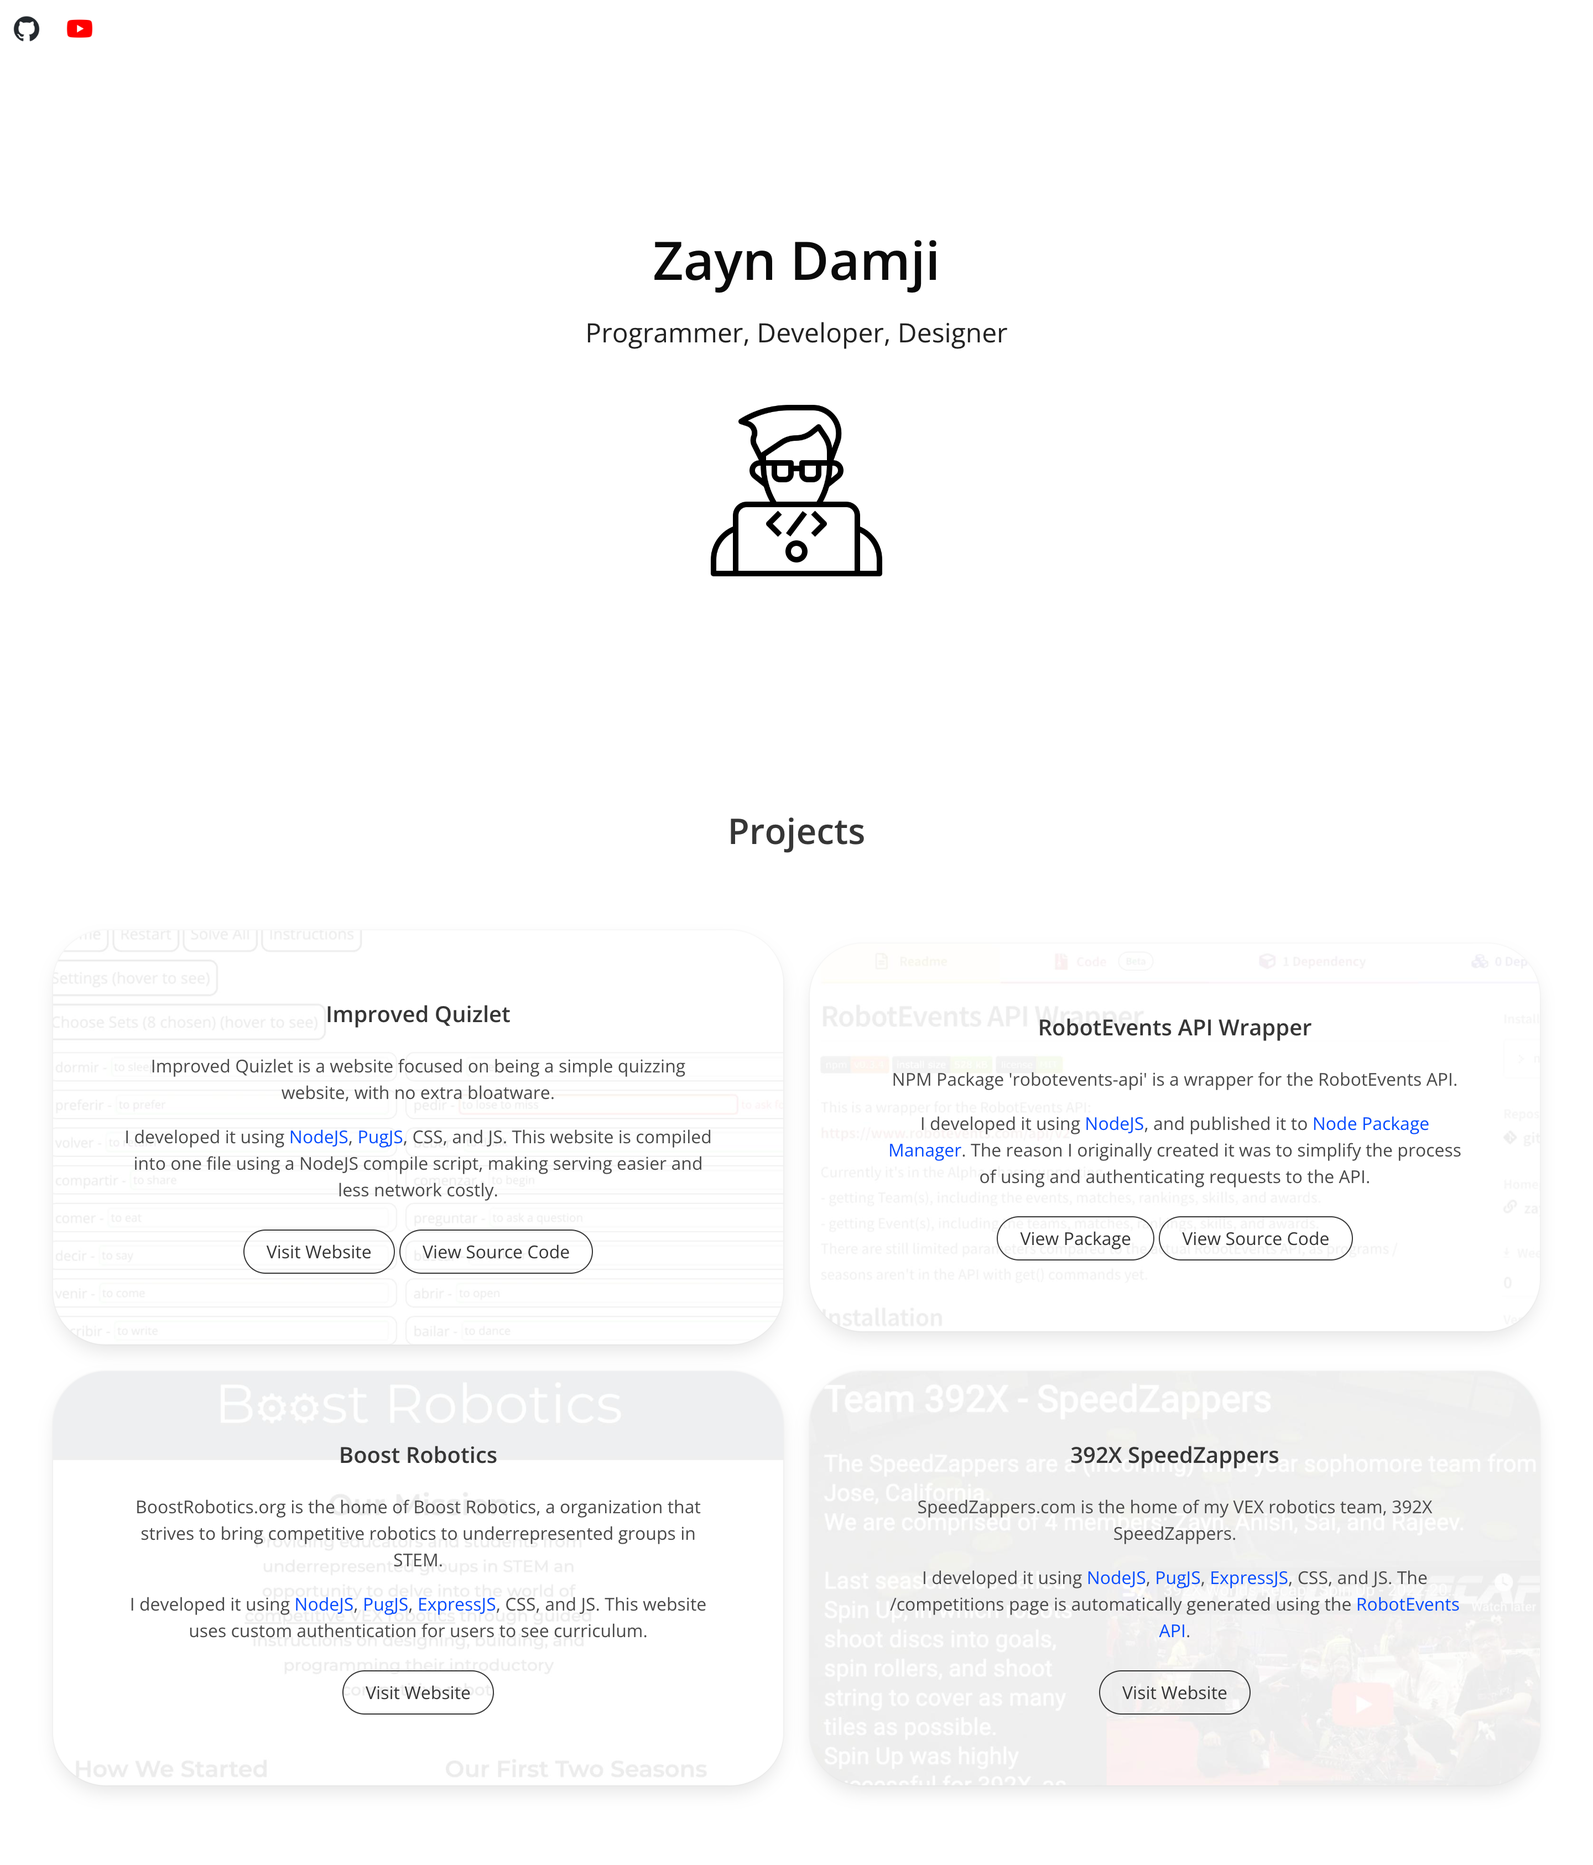
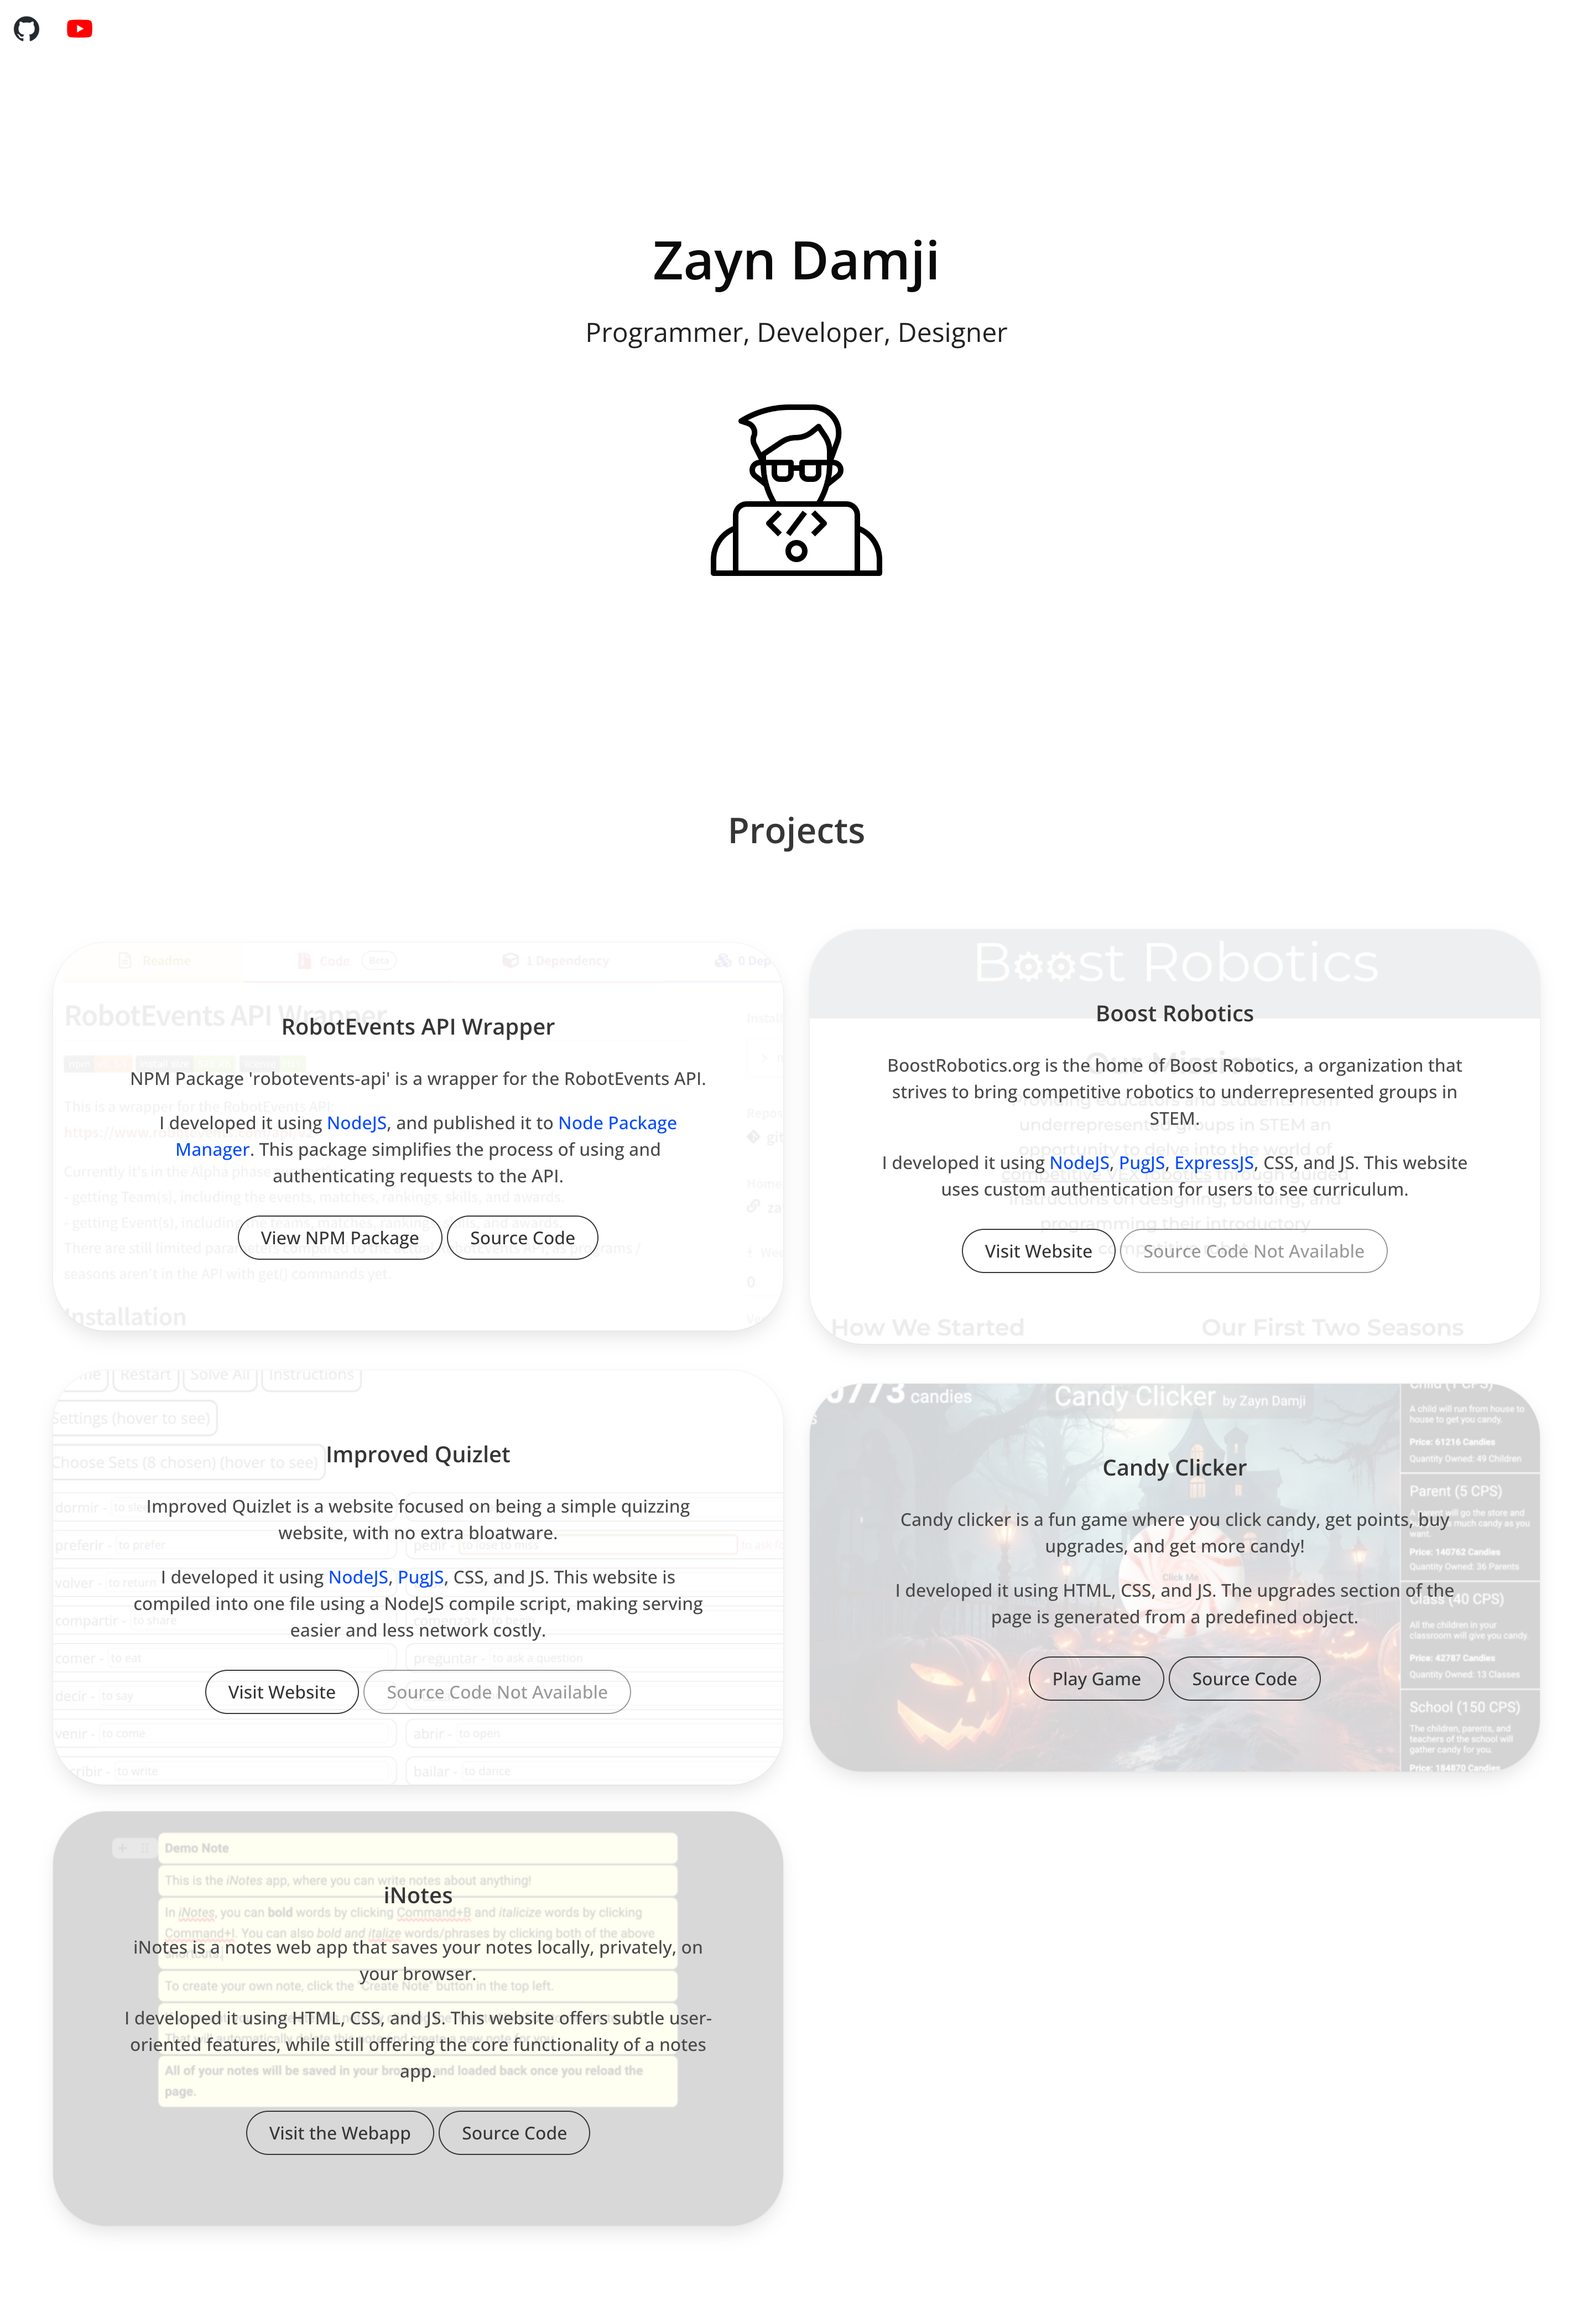
added i-notes

diff --git a/index.html b/index.html
@@ -61,8 +61,8 @@
                 This package simplifies the process of using and authenticating requests to the API.<br>
               </p>
             </div>
-            <a class="button is-dark is-outlined is-rounded" href="https://www.npmjs.com/package/robotevents-api" target="_blank"><span>View Package</span></a>
-            <a class="button is-dark is-outlined is-rounded" href="https://github.com/zayndamji/robotevents-api" target="_blank"><span>View Source Code</span></a>
+            <a class="button is-dark is-outlined is-rounded" href="https://www.npmjs.com/package/robotevents-api" target="_blank"><span>View NPM Package</span></a>
+            <a class="button is-dark is-outlined is-rounded" href="https://github.com/zayndamji/robotevents-api" target="_blank"><span>Source Code</span></a>
           </div>
         </div>
 
@@ -116,6 +116,23 @@
             </div>
             <a class="button is-dark is-outlined is-rounded" href="https://zayndamji.github.io/candy-clicker/" target="_blank"><span>Play Game</span></a>
             <a class="button is-dark is-outlined is-rounded" href="https://github.com/zayndamji/candy-clicker" target="_blank"><span>Source Code</span></a>
+          </div>
+        </div>
+      </div>
+
+      <div class="columns is-multiline is-vcentered">
+        <div class="column is-half">
+          <div class="box background-image i-notes">
+            <h1 class="title is-5">iNotes</h1>
+            <div class="content is-size-6">
+              <p>iNotes is a notes web app that saves your notes locally, privately, on your browser.</p>
+              <p>
+                I developed it using HTML, CSS, and JS.
+                This website offers subtle user-oriented features, while still offering the core functionality of a notes app.
+              </p>
+            </div>
+            <a class="button is-dark is-outlined is-rounded" href="https://zayndamji.github.io/notes-webapp/" target="_blank"><span>Visit the Webapp</span></a>
+            <a class="button is-dark is-outlined is-rounded" href="https://github.com/zayndamji/notes-webapp" target="_blank"><span>Source Code</span></a>
           </div>
         </div>
       </div>

diff --git a/style.css b/style.css
@@ -19,6 +19,7 @@ a.white-link:hover {
 
   padding: 4rem;
   border-radius: 48px;
+  font-weight: 500;
 }
 
 .box.background-image.robotevents-api {
@@ -35,4 +36,8 @@ a.white-link:hover {
 
 .box.background-image.candy-clicker {
   background-image: url('candyclicker.png');
+}
+
+.box.background-image.i-notes {
+  background-image: url('inotes.png');
 }

diff --git a/README.md b/README.md
@@ -7,4 +7,4 @@ My name is Zayn, and this is my portfolio website.
 # Image of Website
 Here is an image of the website, though it is best to experience directly at the link above.  
 <br>
-<img src="./websiteScreenshot.png" style="width: 70%;">
+<img src="https://raw.githubusercontent.com/zayndamji/portfolio-website/refs/heads/main/websiteScreenshot.png" style="width: 100%;">
